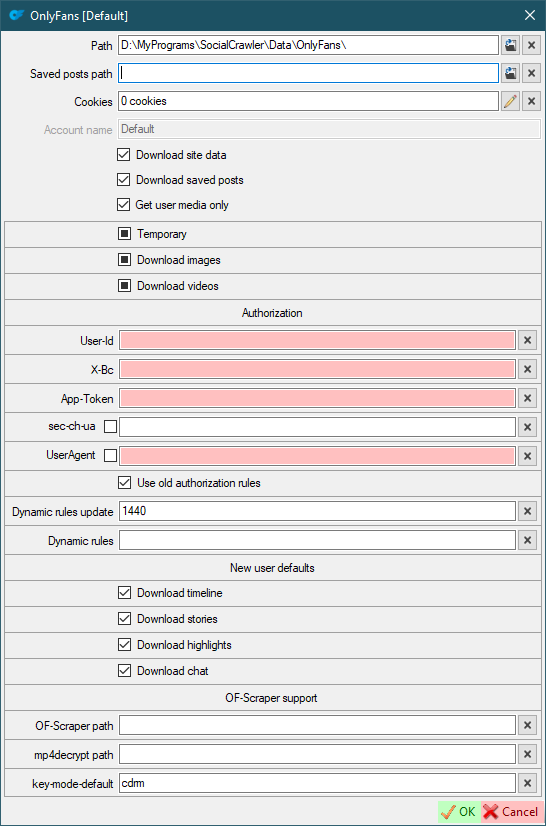
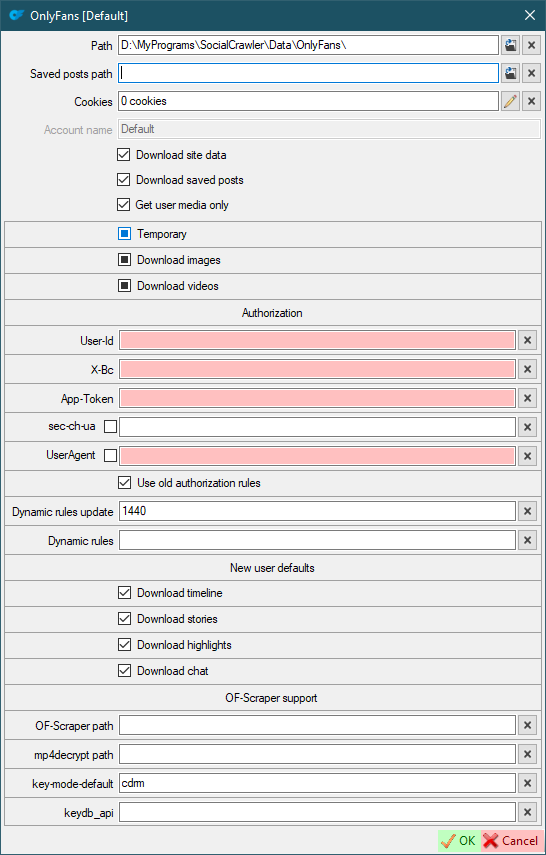
2024.6.6.0
YT
VideoOptionsForm: file path is cleared when the cancel button is clicked (browse button); remove the context menu when the right clicking on browse button; add 'ButtonRC' class

SCrawler
API.OnlyFans: add check config to the SiteSettings; update config; add 'Keydb_Api' property; reset 'LastDateUpdated' when rules change; add support 'prefix/suffix' and 'start/end' to support other rules formats
DownloadFeedForm: update 'BTT_CURR_SESSION_SET_Click' function
TDownloader: update 'FilesLoadLastSession' function

Changed region(s): [[0.0, 0.0, 0.9963, 0.9988]]

diff --git a/Changelog.md b/Changelog.md
@@ -1,3 +1,19 @@
+# 2024.6.6.0
+
+*2024-06-06*
+
+**ATTENTION!**
+1. **To support downloading of DRM protected videos (OnlyFans), please update OF-Scraper to version [3.10](https://github.com/datawhores/OF-Scraper/releases/tag/3.10) (download `zip`, not `exe`).**
+2. **If there is a `OFScraperConfigPattern.json` file in the SCrawler settings folder, replace the text of the file with [this text](https://github.com/AAndyProgram/SCrawler/blob/main/SCrawler/API/OnlyFans/OFScraperConfigPattern.json).**
+3. **Set the value to `Dynamic rules` (in the site settings) = `https://raw.githubusercontent.com/Growik/onlyfans-dynamic-rules/main/rules.json`.**
+
+- Added
+  - OnlyFans: new OF-Scraper option (`keydb_api`)
+  - Minor improvements
+- Fixed
+  - OnlyFans: **data is not downloading**
+  - Minor bugs
+
 # 2024.6.4.0
 
 *2024-06-04*
